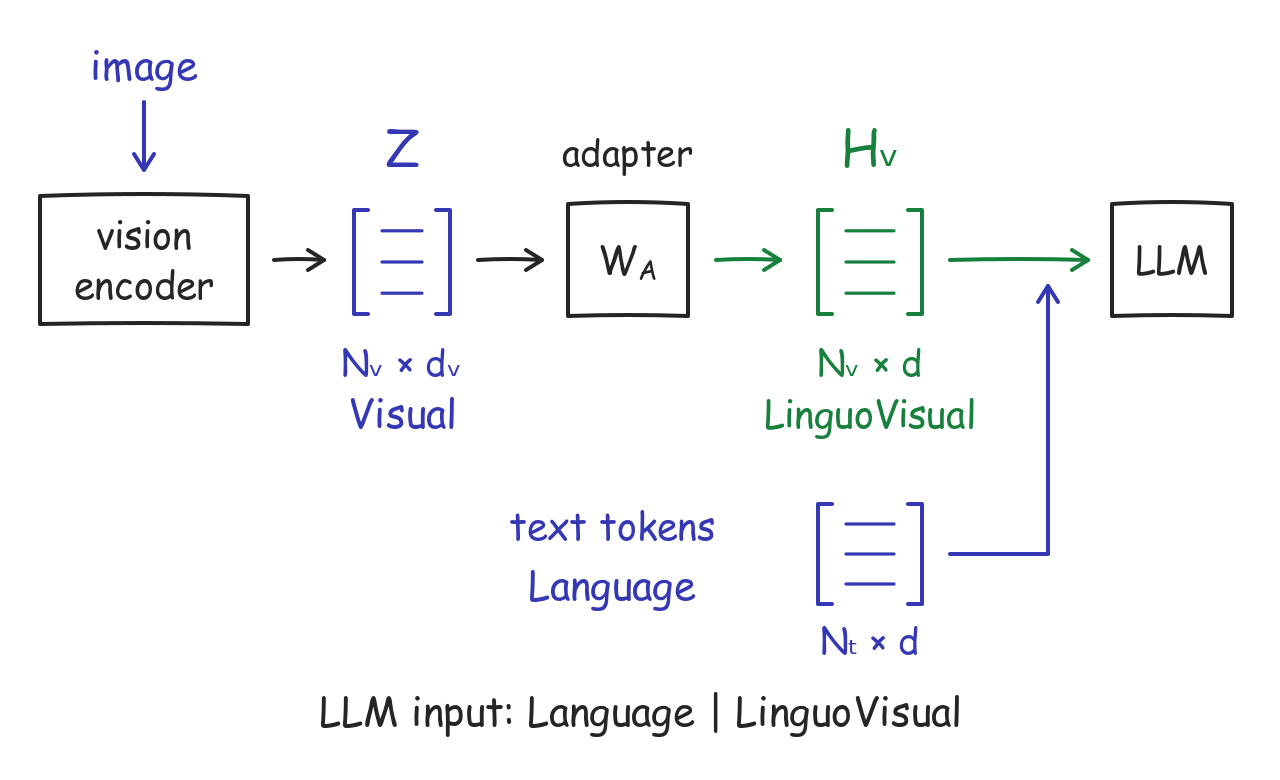
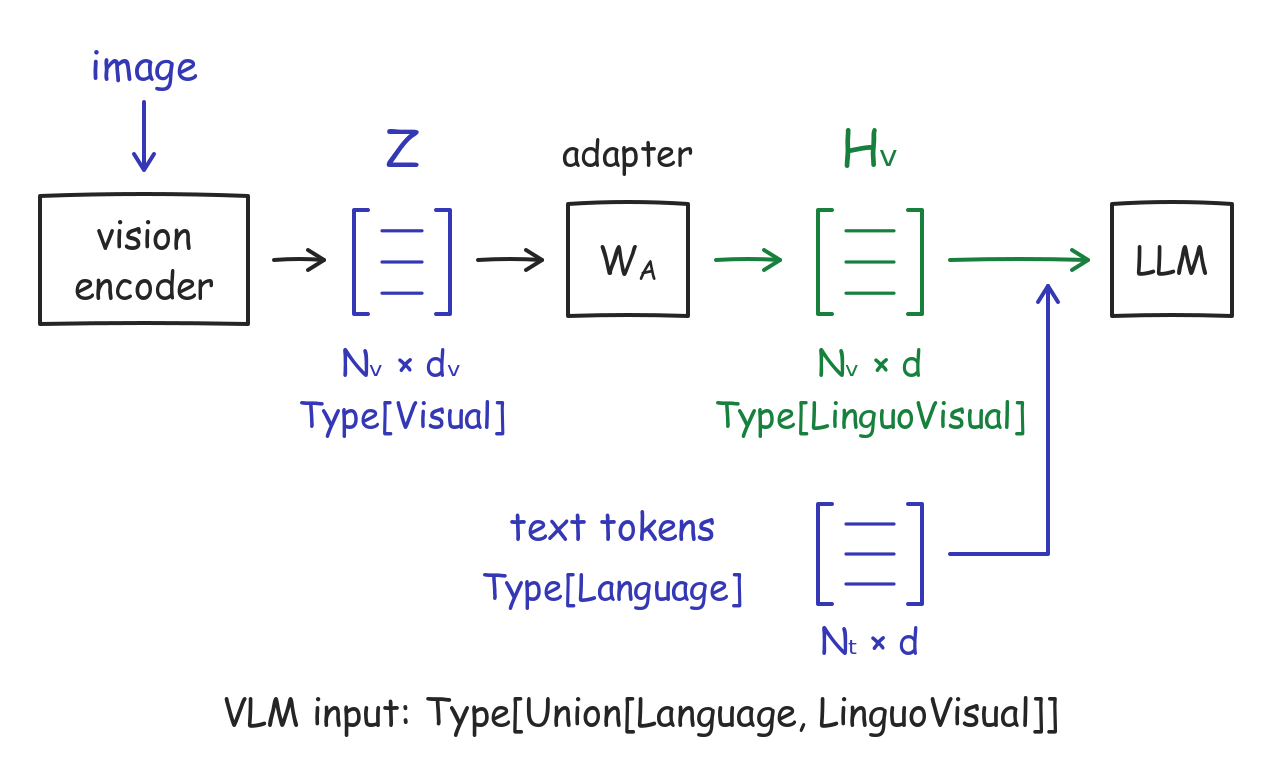
Clarify attention and multimodal type labels in diagrams

diff --git a/tools/draw_post4_implications.py b/tools/draw_post4_implications.py
@@ -21,7 +21,7 @@ def down(s, x, y1, y2, color=INK):
 
 
 def rag():
-    s = start('RAG adds references to the context', 'The original context and retrieved document tokens combine into input X. Self-attention processes this expanded context with the same projection weights. Context and document tokens have the same width d; concatenation grows the row count from N to N plus M.', 300)
+    s = start('RAG adds references to the context', 'The original context and retrieved document tokens combine into input X. Attention processes this expanded context with the same projection weights. Context and document tokens have the same width d; concatenation grows the row count from N to N plus M.', 300)
     text(s, 93, 37, 'context', BLUE)
     matrix(s, 54, 50, 78, 55, BLUE)
     text(s, 93, 130, 'N × d', BLUE, 18)
@@ -37,7 +37,7 @@ def rag():
     for y, color in [(75, BLUE), (99, BLUE), (123, BLUE), (150, GREEN), (174, GREEN), (198, GREEN)]:
         path(s, f'M239 {y} H275', color, 1.8)
     arrow(s, 301, 137, 340, 137)
-    box(s, 352, 106, 153, 64, ['self-attention'])
+    box(s, 352, 106, 153, 64, ['attention'])
     text(s, 428, 204, 'same weights', size=18)
     arrow(s, 519, 137, 557, 137)
     text(s, 596, 144, 'out', GREEN)
@@ -105,7 +105,7 @@ def reuse():
 
 def multimodal():
     s = start('The adapter connects visual and language token interfaces',
-              'A vision encoder produces Z with shape N v by d v and conceptual Type Visual. The learned adapter W A maps Z to H v with shape N v by d and conceptual Type LinguoVisual. Text tokens of Type Language have width d too. The language model accepts both kinds after alignment training. These are conceptual types, not formal type guarantees.', 390)
+              'A vision encoder produces Z with shape N v by d v and conceptual Type[Visual]. The learned adapter W A maps Z to H v with shape N v by d and conceptual Type[LinguoVisual]. Text tokens of Type[Language] have width d too. The VLM input has conceptual Type[Union[Language, LinguoVisual]] after alignment training. These are conceptual types, not formal type guarantees.', 390)
     text(s, 72, 40, 'image', BLUE, 20)
     down(s, 72, 51, 85, BLUE)
     box(s, 20, 98, 104, 64, ['vision', 'encoder'])
@@ -113,7 +113,7 @@ def multimodal():
     text(s, 201, 83, 'Z', BLUE, 25)
     matrix(s, 177, 105, 48, 52, BLUE)
     text(s, 201, 188, 'Nᵥ × dᵥ', BLUE, 18)
-    text(s, 201, 214, 'Visual', BLUE, 20)
+    text(s, 201, 214, 'Type[Visual]', BLUE, 18)
     arrow(s, 239, 130, 271, 130)
     box(s, 284, 102,  60, 56, ['W_A'])
     text(s, 314, 83, 'adapter', size=18)
@@ -121,16 +121,16 @@ def multimodal():
     text(s, 435, 83, 'Hᵥ', GREEN, 25)
     matrix(s, 409, 105, 52, 52, GREEN)
     text(s, 435, 188, 'Nᵥ × d', GREEN, 18)
-    text(s, 435, 214, 'LinguoVisual', GREEN, 19)
+    text(s, 435, 214, 'Type[LinguoVisual]', GREEN, 18)
     arrow(s, 475, 130, 544, 130, GREEN)
     box(s, 556, 102,  60, 56, ['LLM'])
     text(s, 306, 270, 'text tokens', BLUE, 19)
-    text(s, 306, 300, 'Language', BLUE, 20)
+    text(s, 306, 300, 'Type[Language]', BLUE, 18)
     matrix(s, 409, 252, 52, 50, BLUE)
     text(s, 435, 327, 'Nₜ × d', BLUE, 18)
     path(s, 'M475 277 H524 V143', BLUE)
     path(s, 'M519 151 L524 143 L529 151', BLUE)
-    text(s, 320, 363, 'LLM input: Language | LinguoVisual', size=20)
+    text(s, 320, 363, 'VLM input: Type[Union[Language, LinguoVisual]]', size=19)
     save(s, 'multimodal-adapter.png')
 
 

diff --git a/_posts/2026-09-12-transformer-projectors-vs-projections.md b/_posts/2026-09-12-transformer-projectors-vs-projections.md
@@ -103,9 +103,9 @@ Matching dimensions is one aspect; training must make the encoder's features use
 
 <figure class="concept-figure">
   <a href="{{ '/assets/images/transformer/multimodal-adapter.png' | relative_url }}">
-    <img src="{{ '/assets/images/transformer/multimodal-adapter.png' | relative_url }}" width="640" height="390" loading="lazy" alt="The adapter maps Visual features of width d v into LinguoVisual tokens of width d. These join Language tokens of width d at the language model input, corresponding to the conceptual union type described in the text.">
+    <img src="{{ '/assets/images/transformer/multimodal-adapter.png' | relative_url }}" width="640" height="390" loading="lazy" alt="The adapter maps Type[Visual] features of width d v into Type[LinguoVisual] tokens of width d. These join Type[Language] tokens at the VLM input, labeled Type[Union[Language, LinguoVisual]].">
   </a>
-  <figcaption>The adapter connects Visual to LinguoVisual; the LLM accepts Language or LinguoVisual tokens. These are conceptual types, with compatibility learned through alignment.</figcaption>
+  <figcaption>The adapter connects Type[Visual] to Type[LinguoVisual]; the VLM accepts Type[Union[Language, LinguoVisual]]. These are conceptual types, with compatibility learned through alignment.</figcaption>
 </figure>
 
 For a complementary software-engineering treatment of transformer interfaces and types, see Nelson Elhage's [*Transformers for software engineers*](https://blog.nelhage.com/post/transformers-for-software-engineers/).
